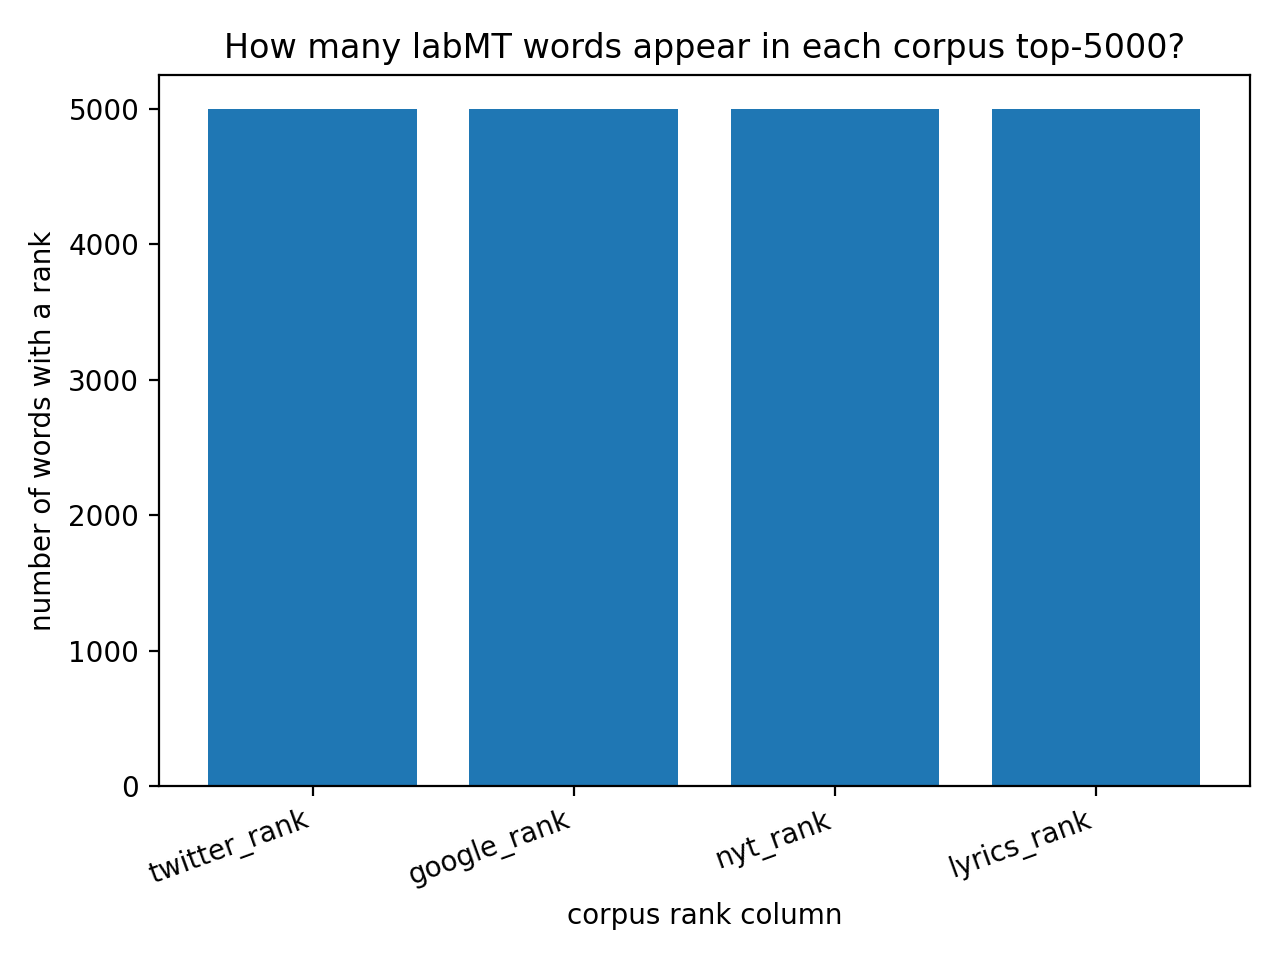
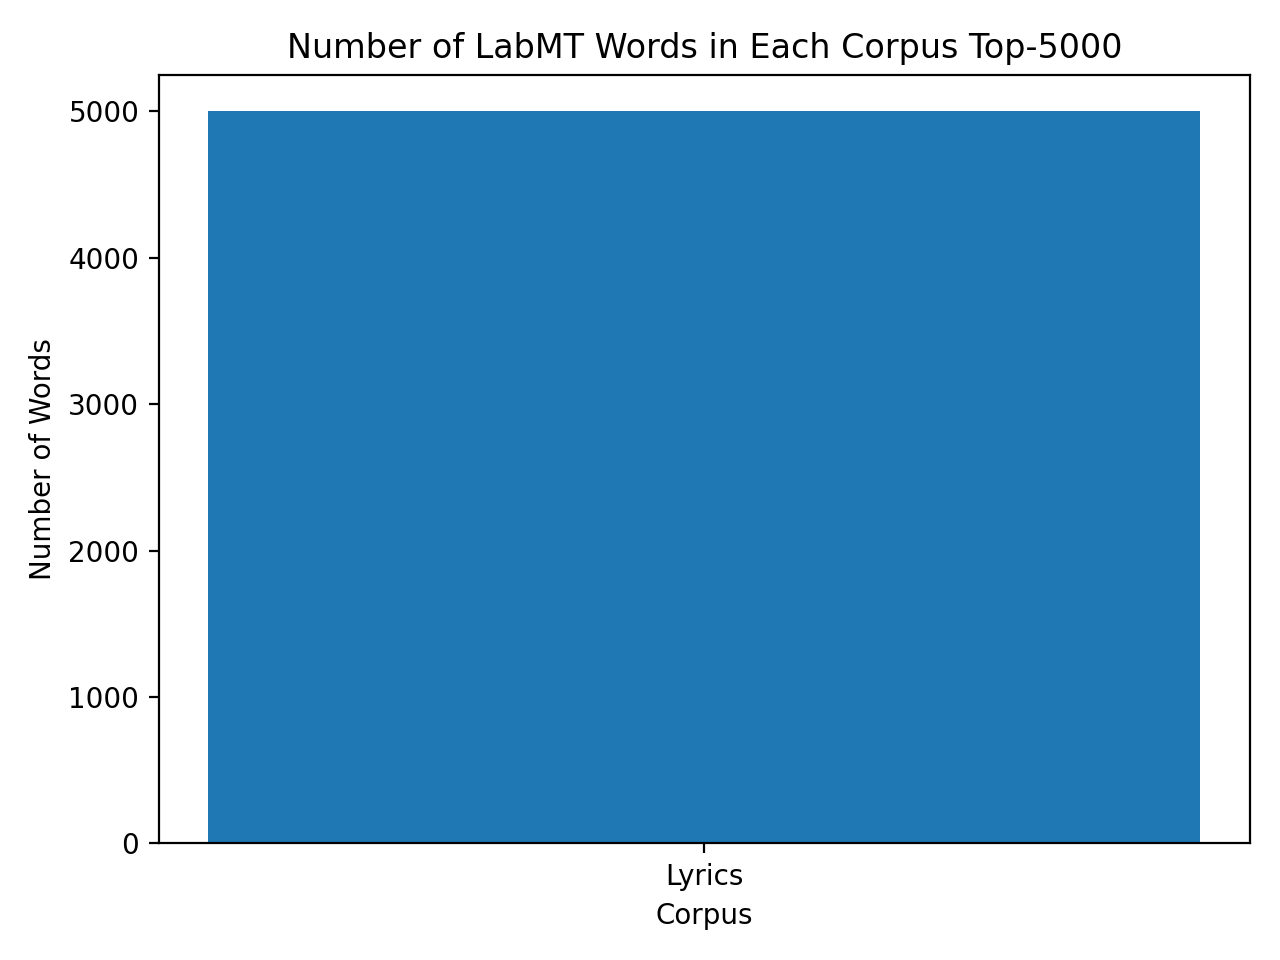
2.3 exercise

diff --git a/src/hedonometer_labmt_demo.py b/src/hedonometer_labmt_demo.py
@@ -258,13 +258,27 @@ rank_cols = ["twitter_rank", "google_rank", "nyt_rank", "lyrics_rank"]
 coverage_rows = []
 for col in rank_cols:
     n_present = int(df[col].notna().sum())
-    coverage_rows.append(
-        {
-            "rank_column": col,
-            "n_words_with_rank": n_present,
-            "share_of_lexicon": n_present / len(df),
-        }
-    )
+    pretty_names = {
+    "twitter_rank": "Twitter",
+    "google_rank": "Google Books",
+    "nyt_rank": "NYT",
+    "lyrics_rank": "Lyrics"
+}
+
+coverage_rows.append(
+    {
+        "corpus": pretty_names[col],
+        "n_words_with_rank": n_present,
+        "share_of_lexicon": n_present / len(df),
+    }
+) 
+pretty_names = {
+    "twitter_rank": "Twitter",
+    "google_rank": "Google Books",
+    "nyt_rank": "NYT",
+    "lyrics_rank": "Lyrics"
+}
+
 
 coverage = pd.DataFrame(coverage_rows)
 print(coverage.to_string(index=False))
@@ -272,11 +286,10 @@ save_csv(coverage, "corpus_rank_coverage.csv", index=False)
 
 # Bar chart (coverage)
 plt.figure()
-plt.bar(coverage["rank_column"], coverage["n_words_with_rank"])
-plt.title("How many labMT words appear in each corpus top-5000?")
-plt.xlabel("corpus rank column")
-plt.ylabel("number of words with a rank")
-plt.xticks(rotation=20, ha="right")
+plt.bar(coverage["corpus"], coverage["n_words_with_rank"])
+plt.title("Number of LabMT Words in Each Corpus Top-5000")
+plt.xlabel("Corpus")
+plt.ylabel("Number of Words")
 plt.tight_layout()
 save_figure("corpus_rank_coverage_bar.png")
 plt.close()
@@ -311,6 +324,21 @@ for i in range(len(labels)):
 pairwise_overlap = pd.DataFrame(pairs).sort_values("pair")
 save_csv(pairwise_overlap, "pairwise_overlap_counts.csv", index=False)
 
+# Scatterplot: Twitter rank vs NYT rank (only words present in both)
+
+both = df[(df["twitter_rank"].notna()) & (df["nyt_rank"].notna())]
+
+plt.figure()
+plt.scatter(both["twitter_rank"], both["nyt_rank"], alpha=0.3)
+
+plt.xlabel("Twitter rank")
+plt.ylabel("NYT rank")
+plt.title("Twitter Rank vs NYT Rank (Words in Both Corpora)")
+
+plt.tight_layout()
+save_figure("twitter_vs_nyt_rank_scatter.png")
+plt.close()
+
 # (C) One concrete example: frequent in one corpus, missing in another.
 # Here we look for words that are relatively frequent on Twitter but do NOT appear in NYT's top-5000.
 
@@ -323,20 +351,6 @@ twitter_common_nyt_missing = (
 print("\nExample words frequent on Twitter but missing in NYT top-5000 (top 20 by twitter_rank):")
 print(twitter_common_nyt_missing.to_string(index=False))
 save_csv(twitter_common_nyt_missing, "twitter_common_nyt_missing_top20.csv", index=False)
-
-# Optional: compare ranks directly for words present in BOTH corpora.
-# (This can hint at how similar/different the corpora are.)
-
-both_twitter_nyt = df.dropna(subset=["twitter_rank", "nyt_rank"])
-
-plt.figure()
-plt.scatter(both_twitter_nyt["twitter_rank"], both_twitter_nyt["nyt_rank"], s=10, alpha=0.35)
-plt.title("Twitter rank vs NYT rank (words present in both)")
-plt.xlabel("twitter_rank (1 = most frequent)")
-plt.ylabel("nyt_rank (1 = most frequent)")
-plt.tight_layout()
-save_figure("twitter_rank_vs_nyt_rank_scatter.png")
-plt.close()
 
 
 # -----------------------------------------------------------------------------
